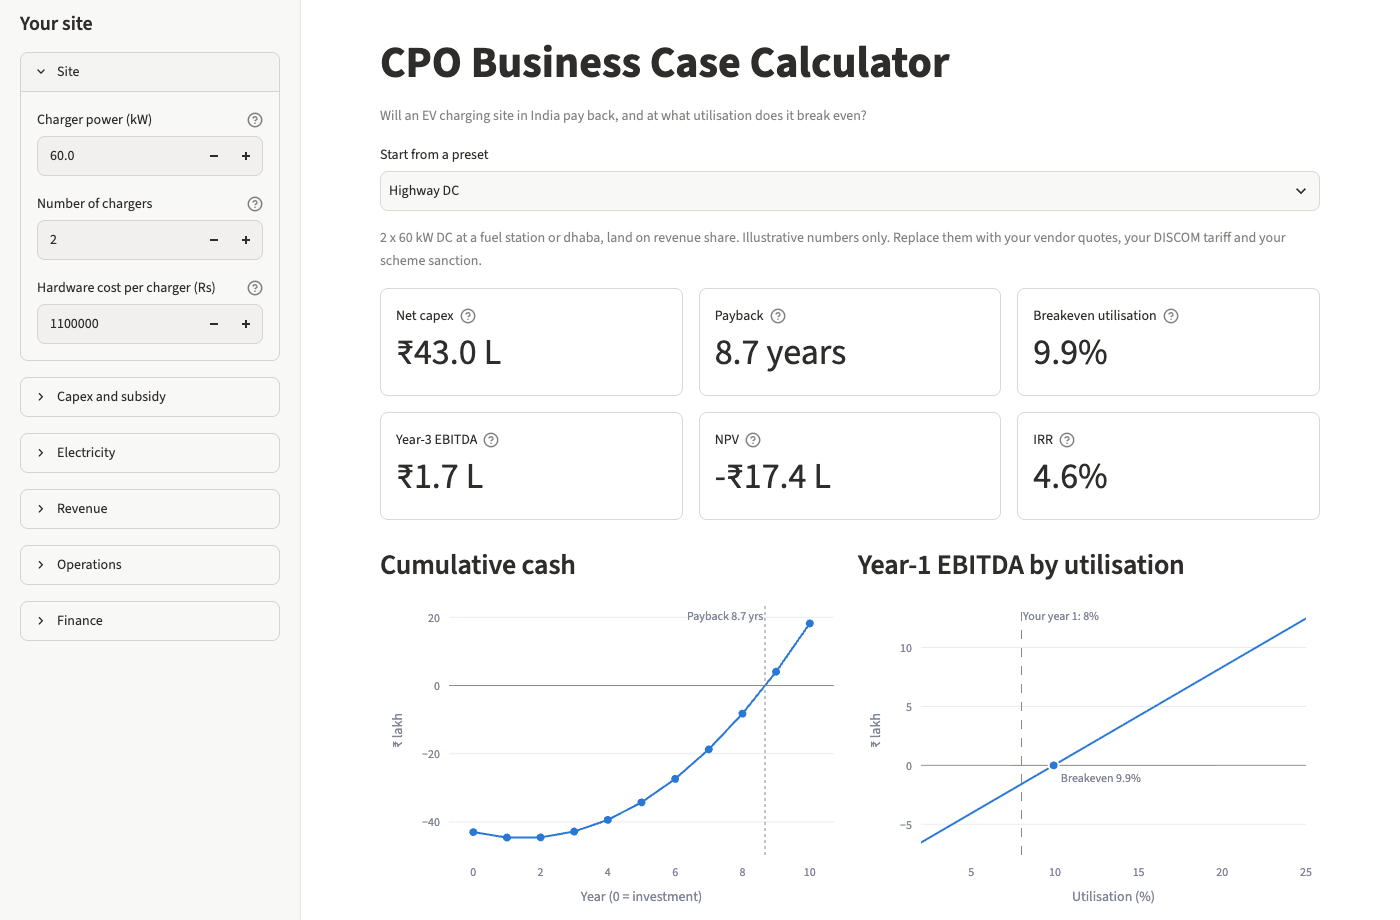
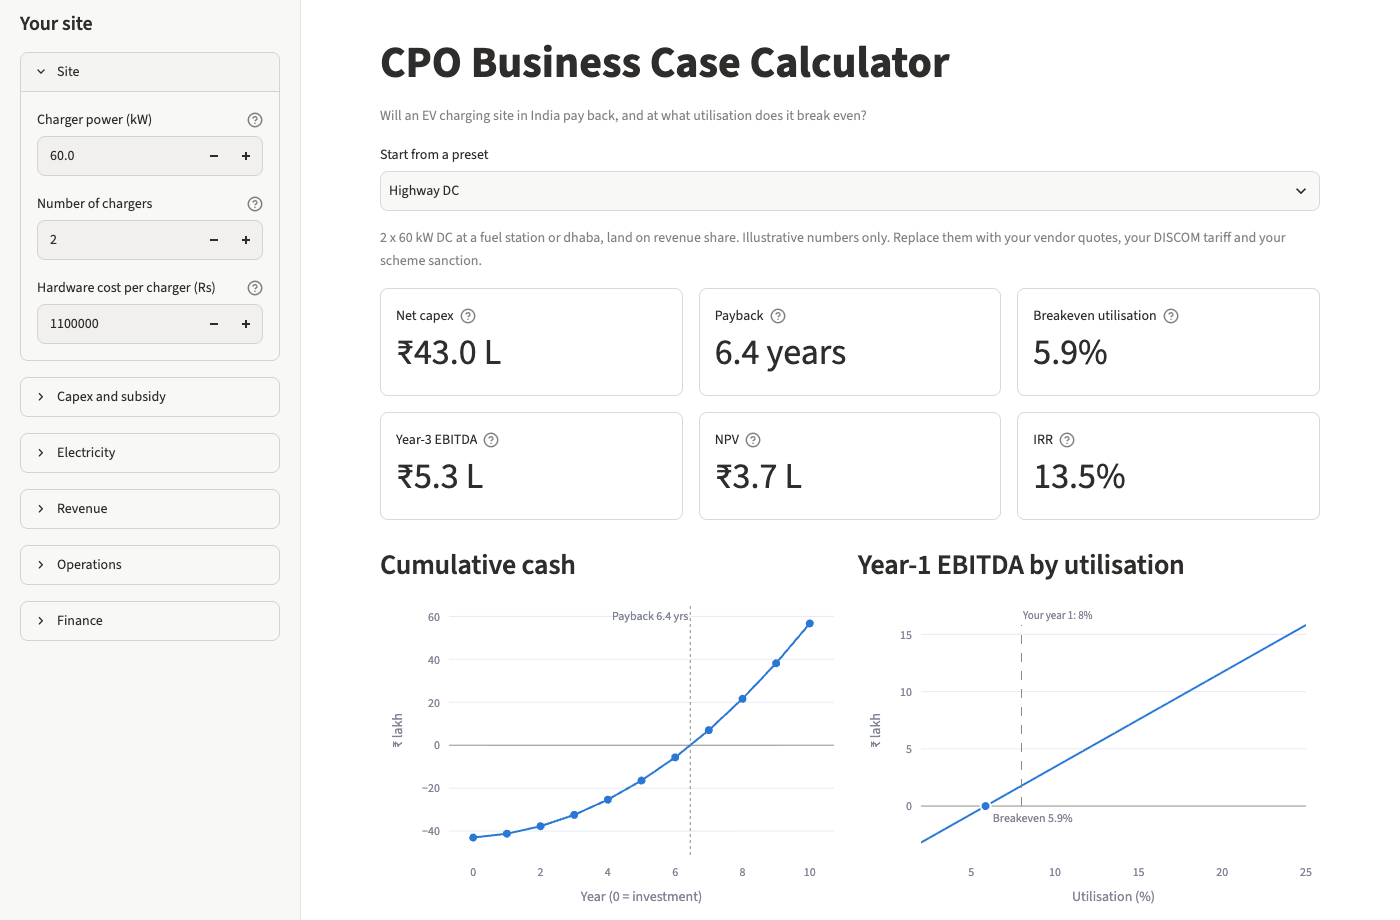
Correct preset tariffs and keep chart labels clear
Highway DC is a public station, so it drops the demand charge under the
2024 single-part tariff. Fleet depot moves to Rs 17/kWh incl. GST (below
public DC), Rs 7/kWh energy, Rs 150/kVA demand and Rs 10,000 rent, based
on published ranges. The demand-charge hint now explains both cases.
The utilisation marker starts at zero so the breakeven label never
overlaps it.

diff --git a/src/cpo_calc/presets.py b/src/cpo_calc/presets.py
@@ -44,12 +44,8 @@ HIGHWAY_DC = Preset(
     inputs=SiteInputs(
         chargers=[ChargerGroup(power_kw=60, count=2, hardware_cost_each=1_100_000)],
         capex=Capex(electrical=1_500_000, civil=500_000, software_and_commissioning=100_000),
-        energy=Energy(
-            energy_charge_per_kwh=7.5,
-            demand_charge_per_kva_month=200,
-            contracted_load_kva=140,
-            losses_pct=7,
-        ),
+        # Public station: single-part tariff (energy only) under the 2024 MoP guidelines.
+        energy=Energy(energy_charge_per_kwh=7.5, contracted_load_kva=140, losses_pct=7),
         revenue=Revenue(price_per_kwh_incl_gst=22, payment_fees_pct=2),
         operations=Operations(
             utilisation_pct_year1=8,
@@ -85,23 +81,25 @@ APARTMENT_AC = Preset(
 FLEET_DEPOT_DC = Preset(
     key="fleet_depot_dc",
     title="Fleet depot DC",
-    summary="4 x 30 kW DC charging a cab or delivery fleet overnight, billed by invoice.",
+    summary="4 x 30 kW DC charging a cab or delivery fleet overnight in its own yard, billed by invoice.",
     inputs=SiteInputs(
         chargers=[ChargerGroup(power_kw=30, count=4, hardware_cost_each=600_000)],
         capex=Capex(electrical=1_000_000, civil=300_000, software_and_commissioning=80_000),
+        # Captive connection, so a demand charge applies; charging is mostly overnight.
         energy=Energy(
-            energy_charge_per_kwh=7.5,
-            demand_charge_per_kva_month=200,
+            energy_charge_per_kwh=7,
+            demand_charge_per_kva_month=150,
             contracted_load_kva=130,
             losses_pct=7,
         ),
-        revenue=Revenue(price_per_kwh_incl_gst=15),
+        # Priced below public DC (Rs 18-24/kWh) so the fleet has a reason to sign.
+        revenue=Revenue(price_per_kwh_incl_gst=17),
         operations=Operations(
             utilisation_pct_year1=20,
             utilisation_growth_pts_per_year=2,
             om_per_charger_year=30_000,
             csms_per_charger_month=800,
-            rent_per_month=25_000,
+            rent_per_month=10_000,
             staff_and_other_per_month=20_000,
         ),
         finance=_FINANCE,

diff --git a/app/charts.py b/app/charts.py
@@ -46,20 +46,28 @@ def cumulative_cash(result: SiteResult) -> go.Figure:
 
 def ebitda_vs_utilisation(site: SiteInputs, result: SiteResult) -> go.Figure:
     utils = [u / 2 for u in range(4, 51)]  # 2% to 25% in half-point steps
+    ebitda = [ebitda_at_utilisation(site, u) / LAKH for u in utils]
     fig = go.Figure(
         go.Scatter(
             x=utils,
-            y=[ebitda_at_utilisation(site, u) / LAKH for u in utils],
+            y=ebitda,
             mode="lines",
             line=dict(color=SERIES, width=2),
             hovertemplate="₹%{y:,.1f} L<extra></extra>",
             name="Year-1 EBITDA",
         )
     )
+    # The marker for the user's utilisation runs from zero upwards, so the breakeven label
+    # placed below zero never collides with it.
     yours = site.operations.utilisation_pct_year1
-    fig.add_vline(
-        x=yours, line=dict(color=REFERENCE, width=1, dash="dash"),
-        annotation_text=f"Your year 1: {yours:g}%", annotation_position="top left" if yours > 13.5 else "top right",
+    top = max(ebitda)
+    fig.add_shape(
+        type="line", x0=yours, x1=yours, y0=0, y1=top,
+        line=dict(color=REFERENCE, width=1, dash="dash"),
+    )
+    fig.add_annotation(
+        x=yours, y=top, text=f"Your year 1: {yours:g}%", showarrow=False,
+        xanchor="left" if yours <= 13.5 else "right", yanchor="bottom", font=dict(size=11),
     )
     breakeven = result.breakeven_utilisation_pct
     if breakeven is not None and 2 <= breakeven <= 25:
@@ -68,7 +76,8 @@ def ebitda_vs_utilisation(site: SiteInputs, result: SiteResult) -> go.Figure:
                 x=[breakeven], y=[0], mode="markers+text",
                 marker=dict(size=10, color=SERIES, line=dict(color="white", width=2)),
                 text=[f"Breakeven {breakeven:.1f}%"],
-                textposition="bottom right" if breakeven >= yours else "bottom left",
+                # The line rises left to right, so below-right and above-left of the point stay clear.
+                textposition="bottom right" if breakeven <= 20 else "top left",
                 hoverinfo="skip",
             )
         )

diff --git a/app/form.py b/app/form.py
@@ -34,7 +34,7 @@ GROUPS: list[tuple[str, list[FormField]]] = [
     ]),
     ("Electricity", [
         FormField("energy.energy_charge_per_kwh", "Energy charge (Rs/kWh)", "EV charging category in your DISCOM's current tariff order.", "rate"),
-        FormField("energy.demand_charge_per_kva_month", "Demand charge (Rs/kVA/month)", "Fixed charge in the same tariff order. Some states waive it for EV connections.", "rate"),
+        FormField("energy.demand_charge_per_kva_month", "Demand charge (Rs/kVA/month)", "Public stations: usually 0, as the 2024 MoP guidelines ask for an energy-only tariff until March 2028. Captive or depot connections often pay it. Check your state's tariff order.", "rate"),
         FormField("energy.contracted_load_kva", "Contracted load (kVA)", "Sanctioned load on the connection.", "kw"),
         FormField("energy.losses_pct", "Losses (%)", "Charger and cable losses; 5-8% is typical.", "pct"),
     ]),

diff --git a/tests/test_hand_checked.py b/tests/test_hand_checked.py
@@ -8,15 +8,15 @@ from cpo_calc.presets import PRESETS
 EXPECTED = {
     "highway_dc": dict(
         revenue=1_489_497, payment_fees=35_152, revenue_share=148_950,
-        energy_cost=644_284, fixed_costs=820_000, ebitda=-158_889, net_capex=4_300_000,
+        energy_cost=644_284, fixed_costs=484_000, ebitda=177_111, net_capex=4_300_000,
     ),
     "apartment_ac": dict(
         revenue=350_709, payment_fees=8_277, revenue_share=0,
         energy_cost=217_809, fixed_costs=34_400, ebitda=90_223, net_capex=460_000,
     ),
     "fleet_depot_dc": dict(
-        revenue=2_538_915, payment_fees=0, revenue_share=0,
-        energy_cost=1_610_710, fixed_costs=1_010_400, ebitda=-82_194, net_capex=3_780_000,
+        revenue=2_877_437, payment_fees=0, revenue_share=0,
+        energy_cost=1_503_329, fixed_costs=752_400, ebitda=621_708, net_capex=3_780_000,
     ),
 }
 

diff --git a/examples/hand_checked.md b/examples/hand_checked.md
@@ -13,8 +13,8 @@ asserts each figure to the rupee. Utilisation and uptime apply to installed powe
 | Payment fees | 2% of 17,57,606.4 | 35,152 |
 | Revenue share to landowner | 10% of 14,89,496.95 | 1,48,950 |
 | Energy cost | 79,891.2 / 0.93 x 7.5 | 6,44,284 |
-| Fixed costs | demand 200 x 140 x 12 = 3,36,000; O&M 2 x 50,000; CSMS 2 x 1,000 x 12; staff 30,000 x 12 | 8,20,000 |
-| **EBITDA** | | **-1,58,889** |
+| Fixed costs | no demand charge (public station); O&M 2 x 50,000; CSMS 2 x 1,000 x 12; staff 30,000 x 12 | 4,84,000 |
+| **EBITDA** | | **1,77,111** |
 | Net capex | 2 x 11,00,000 + 15,00,000 + 5,00,000 + 1,00,000 | 43,00,000 |
 
 ## Apartment society AC (4 x 7.4 kW)
@@ -35,8 +35,8 @@ asserts each figure to the rupee. Utilisation and uptime apply to installed powe
 | Line | Working | Rs |
 |---|---|---:|
 | Energy sold | 120 kW x 8,760 h x 20% x 95% = 1,99,728 kWh | |
-| Revenue excl. GST | 1,99,728 x 15 / 1.18 | 25,38,915 |
-| Energy cost | 1,99,728 / 0.93 x 7.5 | 16,10,710 |
-| Fixed costs | demand 200 x 130 x 12 = 3,12,000; O&M 4 x 30,000; CSMS 4 x 800 x 12; rent 25,000 x 12; staff 20,000 x 12 | 10,10,400 |
-| **EBITDA** | | **-82,194** |
+| Revenue excl. GST | 1,99,728 x 17 / 1.18 | 28,77,437 |
+| Energy cost | 1,99,728 / 0.93 x 7 | 15,03,329 |
+| Fixed costs | demand 150 x 130 x 12 = 2,34,000; O&M 4 x 30,000; CSMS 4 x 800 x 12; rent 10,000 x 12; staff 20,000 x 12 | 7,52,400 |
+| **EBITDA** | | **6,21,708** |
 | Net capex | 4 x 6,00,000 + 10,00,000 + 3,00,000 + 80,000 | 37,80,000 |
